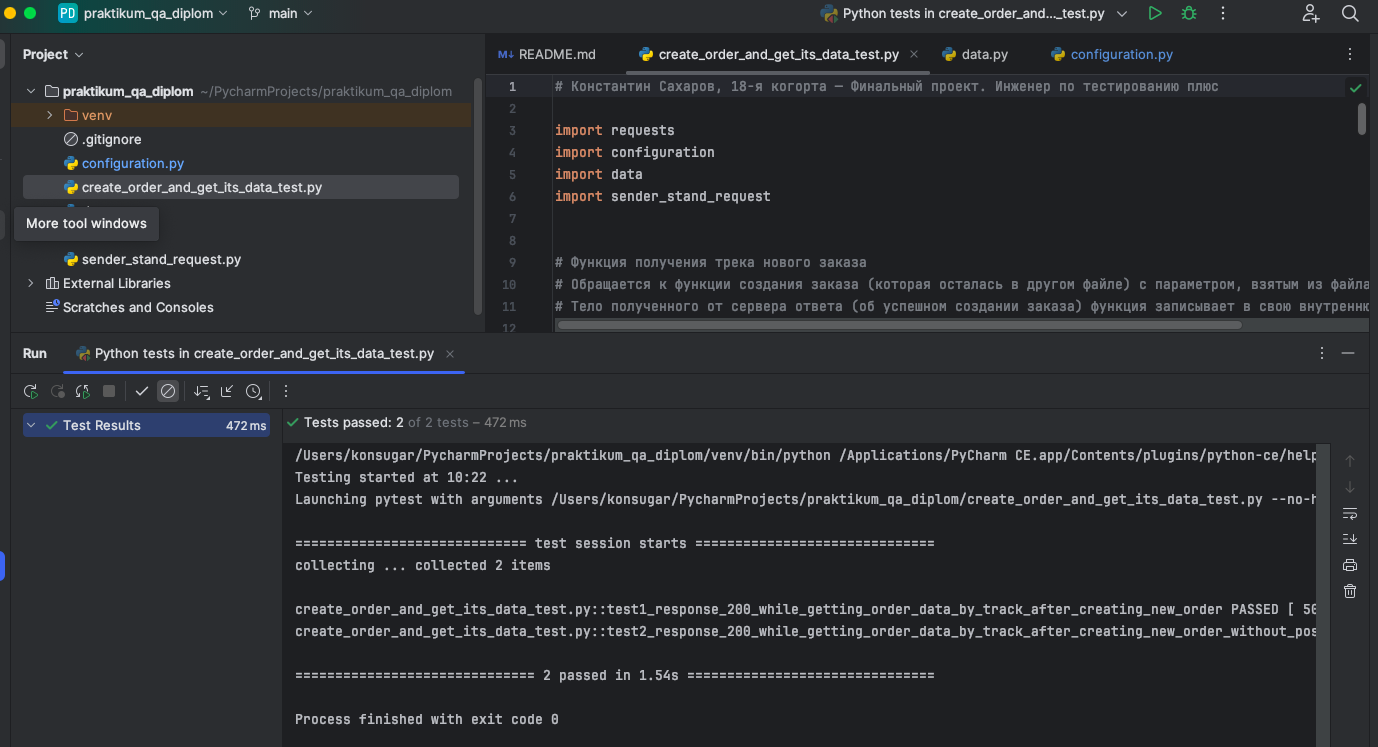
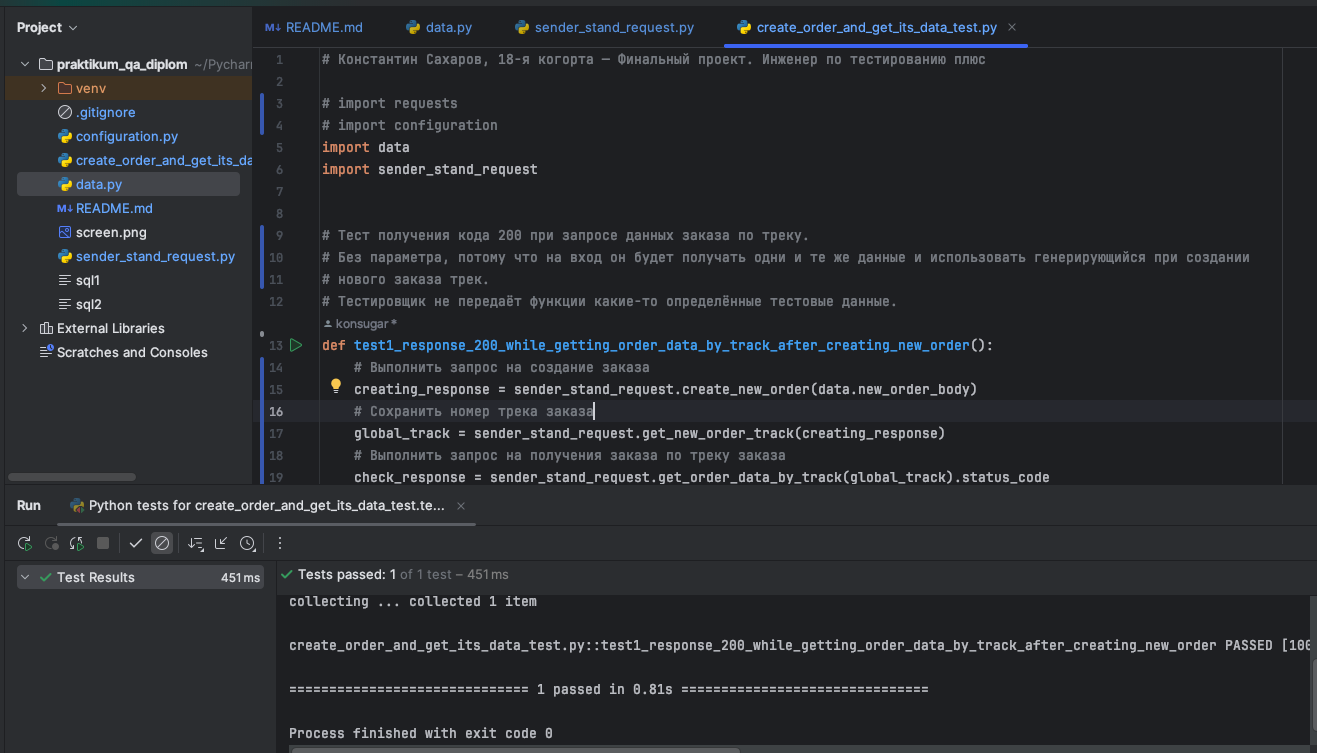
Второй накат

diff --git a/create_order_and_get_its_data_test.py b/create_order_and_get_its_data_test.py
@@ -1,75 +1,21 @@
 # Константин Сахаров, 18-я когорта — Финальный проект. Инженер по тестированию плюс
 
-import requests
-import configuration
+# import requests
+# import configuration
 import data
 import sender_stand_request
 
 
-# Функция получения трека нового заказа
-# Обращается к функции создания заказа (которая осталась в другом файле) с параметром, взятым из файла data
-# Тело полученного от сервера ответа (об успешном создании заказа) функция записывает в свою внутреннюю переменную.
-# Из этой переменной функция берёт значение ключа track и записывает его в ещё одну внутреннюю переменную.
-# Значение этой второй внутренней переменной функция возвращает наружу.
-def get_new_order_track():
-    new_order_response = sender_stand_request.create_new_order(data.new_order_body)
-    new_track = new_order_response.json()["track"]
-    return new_track
-
-
-# Теперь запишем значение трека во внешнюю (относительно функции) переменную track.
-# Переменные new_order_response и new_track остаются только внутри функции get_new_order_track.
-
-track = get_new_order_track()
-# Можно показать, какое значение получила переменная
-print(track)
-
-
-# Функция получения данных заказа по треку имеющегося заказа.
-# У неё есть параметр, в него она будет получать свежесозданный номер трека
-def get_order_data_by_track(ordertrack):
-    return requests.get(configuration.URL_SERVICE + configuration.GET_ORDER_DATA_BY_TRACK + str(ordertrack))
-
-# Функция get_order_data_by_track получает ответ сервера: данные заказа.
-# В нём есть заголовок (200 при успехе), а также тело, в котором все поля таблицы Orders
-
-
-# Временная переменная для проверки, работает ли функция
-# При тесте функция будет примерно так же вызываться внутри функции позитивной проверки или прямо внутри теста
-get_order_data_by_track_response = get_order_data_by_track(track)
-# Можно показать, какой ответ от сервера получился
-print(get_order_data_by_track_response.status_code)
-print(get_order_data_by_track_response.json())
-
-
-# Функция для позитивной проверки. Без параметра, потому что на вход она будет получать одни и те же данные
-# и сгенерированный при создании нового заказа трек.
+# Тест получения кода 200 при запросе данных заказа по треку.
+# Без параметра, потому что на вход он будет получать одни и те же данные и использовать генерирующийся при создании
+# нового заказа трек.
 # Тестировщик не передаёт функции какие-то определённые тестовые данные.
-# Функция ничего не возвращает, только делает assert.
-def positive_assert():
-    # Чтобы сохранить значение во внутреннюю переменную, делается вот что:
-    # Вызывается Функция получения данных заказа по треку имеющегося заказа.
-    # В качестве параметра у неё — переменная track.
-    # Ранее мы задали, что значение переменной track — результат выполнения Функция получения трека нового заказа.
-    # Функция get_new_order_track() выполнилась, вернула значение трека и записала его в глобальную переменную track.
-    # Теперь значение глобальной берёт функция get_order_data_by_track, обращается с ним к серверу и получает ответ.
-    # У ответа сервера есть статус-код,
-    # его-то мы и присвоим внутренней переменной check_response в функции позитивной проверки.
-    check_response = get_order_data_by_track(track).status_code
-    # Проверяется, что код ответа равен 200
-    assert check_response == 200
-    # Можно убедиться, что при другом сравенении тест провалится:
-    # assert check_response == 100
-
-
-# Тест получения кода 200 при запросе данных заказа по треку
 def test1_response_200_while_getting_order_data_by_track_after_creating_new_order():
-    positive_assert()
-
-
-# Вариант того же теста без использования промежуточной функции позитивной проверки.
-# Подойдёт, если сьют не планируется сильно масштабировать.
-# На случай же появления разнообразных тестов, например с разными входными данными для заказов, лучше иметь отдельную
-# функцию позитивной проверки (а вдобавок ещё и негативную).
-def test2_response_200_while_getting_order_data_by_track_after_creating_new_order_without_positive_assert():
-    assert get_order_data_by_track(track).status_code == 200
+    # Выполнить запрос на создание заказа
+    creating_response = sender_stand_request.create_new_order(data.new_order_body)
+    # Сохранить номер трека заказа
+    global_track = sender_stand_request.get_new_order_track(creating_response)
+    # Выполнить запрос на получения заказа по треку заказа
+    check_response = sender_stand_request.get_order_data_by_track(global_track).status_code
+    # Проверить, что код ответа равен 200
+    assert check_response == 200

diff --git a/sender_stand_request.py b/sender_stand_request.py
@@ -4,22 +4,53 @@ import data
 
 
 # Функция "Создать новый заказ"
-def create_new_order(body):
+def create_new_order(param_body):
     return requests.post(configuration.URL_SERVICE + configuration.CREATE_ORDER_PATH,
                          headers=data.headers,
-                         json=body
+                         json=param_body
                          )
 
 # Функция create_new_order получает ответ сервера. В нём есть код ответа 201 со словом Created
 # и тело, состоящее только из ключа-значения трека (track)
 
-
 # следующие строки были для проверки, что всё работает в самой функции; при тесте они не нужны
-
 # create_new_order_response = create_new_order(data.new_order_body)
 # print(create_new_order_response.status_code)
 # print(create_new_order_response.json())
 # print(create_new_order_response.json()["track"])
 
-# Функцию можно было разместить в одном файле вместе со всеми остальными функциями, но я решил оставить файлы примерно
-# так же, как в проекте 10-го спринта, который я взял за основу.
+
+# Старая редакция функции получения трека нового заказа.
+# Обращается к функции создания заказа с параметром, взятым из файла data.
+# Тело полученного от сервера ответа (об успешном создании заказа) функция записывает в свою внутреннюю переменную.
+# Из этой переменной функция берёт значение ключа track и записывает его в ещё одну внутреннюю переменную.
+# Значение этой второй внутренней переменной функция возвращает наружу.
+# def get_new_order_track():
+#    new_order_response = create_new_order(data.new_order_body)
+#    new_track = new_order_response.json()["track"]
+#    return new_track
+# Старая функция закончилась
+
+
+# Второй вариант функция получения трека нового заказа.
+# Раньше она работала без параметра и вызывала сама функцию create_new_order, то есть в рамках обновлённого теста
+# функция create_new_order срабатывала повторно.
+# Теперь get_new_order_track будет работать на параметре, который тест возьмёт у функции создания и передаст функции
+# получения трека.
+# Функция берёт тело полученного от сервера ответа (об успешном создании заказа) и записывает в свою внутреннюю
+# переменную (new_track) значение ключа track из тела.
+# Значение этой внутренней переменной (new_track) функция возвращает наружу — в тест.
+
+def get_new_order_track(param_new_order_response):
+    new_track = param_new_order_response.json()["track"]
+    return new_track
+
+
+# Функция получения данных заказа по треку имеющегося заказа.
+# У неё есть параметр, в него она будет получать номер трека свежесозданного заказа. Тест возьмёт этот номер из
+# результата работы функции get_new_order_track
+def get_order_data_by_track(param_ordertrack):
+    return requests.get(configuration.URL_SERVICE + configuration.GET_ORDER_DATA_BY_TRACK + str(param_ordertrack))
+
+# Функция get_order_data_by_track получает ответ сервера: данные заказа.
+# В нём есть заголовок (200 при успехе), а также тело, в котором все поля таблицы Orders

diff --git a/configuration.py b/configuration.py
@@ -1,8 +1,8 @@
 # адрес стенда
-URL_SERVICE = "https://28891d49-7bd9-4c44-b1ed-c4fd3fdd4afa.serverhub.praktikum-services.ru/"
+URL_SERVICE = "https://c2ef3609-ffd3-4e10-b8d5-325ed2516570.serverhub.praktikum-services.ru/"
 
 # на случай ошибок
-LOG_MAIN_PATH = "/var/www/backend/logs/"
+# LOG_MAIN_PATH = "/var/www/backend/logs/"
 
 # ручка создания нового заказа
 CREATE_ORDER_PATH = "/api/v1/orders/"

diff --git a/data.py b/data.py
@@ -8,7 +8,7 @@ new_order_body = {
     "firstName": "firstname_test",
     "lastName": "lastname_test",
     "address": "address_test",
-    "metroStation": 1,
+    "metroStation": 107,
     "phone": "+99999999999",
     "rentTime": 1,
     "deliveryDate": "2024-12-31",

diff --git a/README.md b/README.md
@@ -5,13 +5,15 @@
 Тестируется, что при запросе данных о заказе по его треку (номеру для отслеживания) сервер отдаёт ответ успешно
 и подтверждает это кодом 200.
 
-Тест включает две функции:
+Тест включает функции:
 1. Создаёт новый заказ → получает от сервера ответ с его треком.
-2. Использует этот трек для отправки нового запроса к серверу → получает ответ с данными о заказе.
+2. Получает из полного ответа значение трека.
+3. Использует это значение трека для отправки нового запроса к серверу → получает ответ с данными о заказе.
+4. Проверяет, что заголовок ответа подтверждает его успешность.
 
 ## Проверка одна — позитивная
 
 - При получении существующего трека сервер возвращает код 200 (это проверяется).
 
-Функция получения данных по треку также получает тело ответа, но в тесте это не используется.
+Функция получения данных заказа по треку также получает полное тело ответа, но в тесте это не используется.
 
